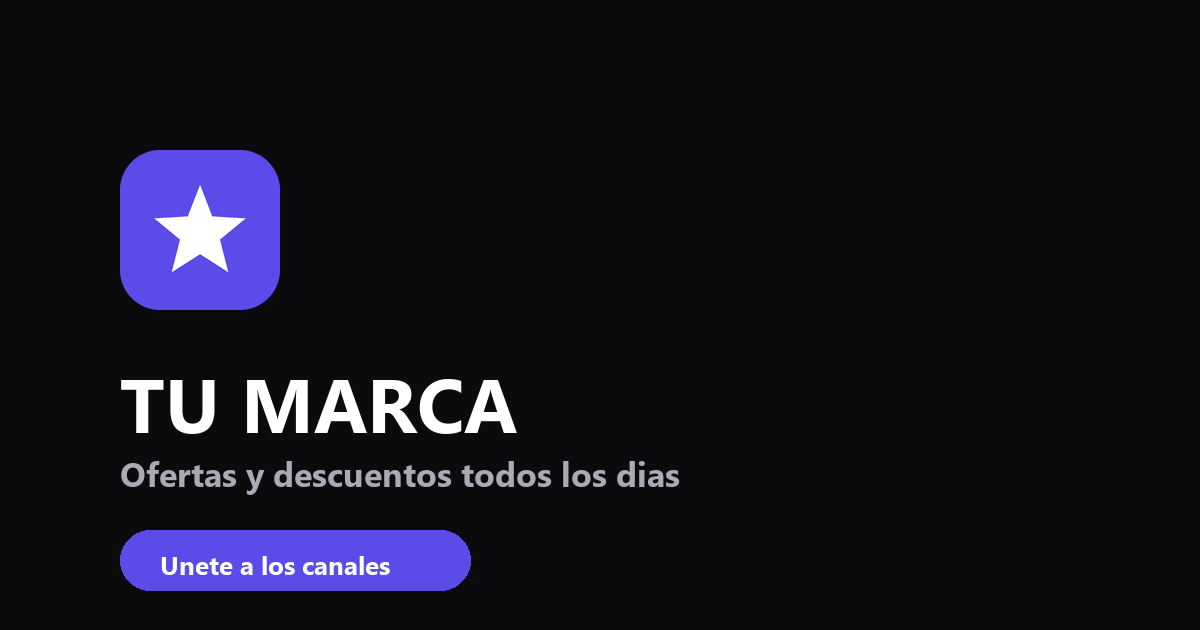
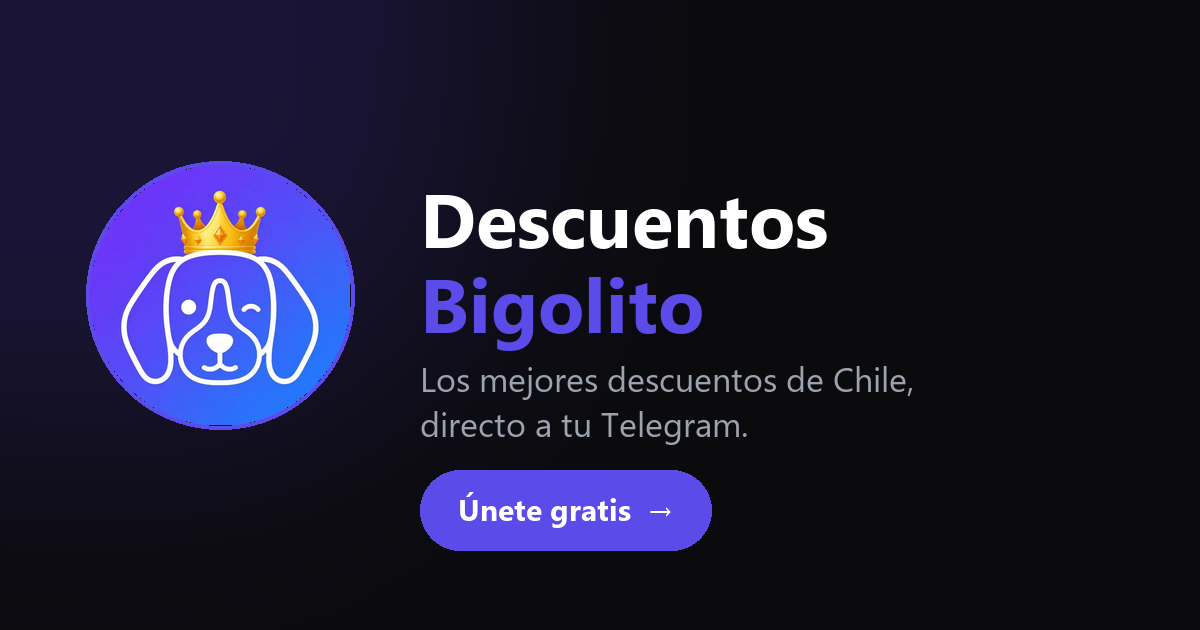
Arreglar la vista previa del link en Telegram/WhatsApp
og-image.png era un placeholder generico ("TU MARCA") y og:image
usaba una ruta relativa, que Telegram no resuelve al armar la
tarjeta (por eso se veia un recuadro vacio). Ahora la imagen tiene
el logo real de Bigolito y el meta tag usa URL absoluta.

diff --git a/web/index.html b/web/index.html
@@ -8,12 +8,16 @@
   <meta name="description" content="Descuentos Bigolito — encuentra los mejores descuentos y cupones del día. Únete a nuestros canales de Telegram y no te pierdas ninguna oferta.">
   <meta name="theme-color" content="#0B0B0E">
 
-  <!-- Open Graph: así se ve la tarjeta al compartir el enlace en Telegram o WhatsApp -->
+  <!-- Open Graph: así se ve la tarjeta al compartir el enlace en Telegram o WhatsApp.
+       El og:image tiene que ser una URL absoluta: Telegram no resuelve rutas relativas
+       al armar la vista previa, y mostraba un recuadro vacío. -->
   <meta property="og:type" content="website">
+  <meta property="og:url" content="https://ofertas-bot-web-test.pages.dev/">
   <meta property="og:title" content="Descuentos Bigolito | Ofertas y descuentos">
   <meta property="og:description" content="Descuentos Bigolito — encuentra los mejores descuentos y cupones del día. Únete a nuestros canales de Telegram.">
-  <meta property="og:image" content="./images/og-image.png">
+  <meta property="og:image" content="https://ofertas-bot-web-test.pages.dev/images/og-image.png">
   <meta name="twitter:card" content="summary_large_image">
+  <meta name="twitter:image" content="https://ofertas-bot-web-test.pages.dev/images/og-image.png">
 
   <link rel="manifest" href="./manifest.json">
   <link rel="icon" type="image/svg+xml" href="./images/logo.svg">
